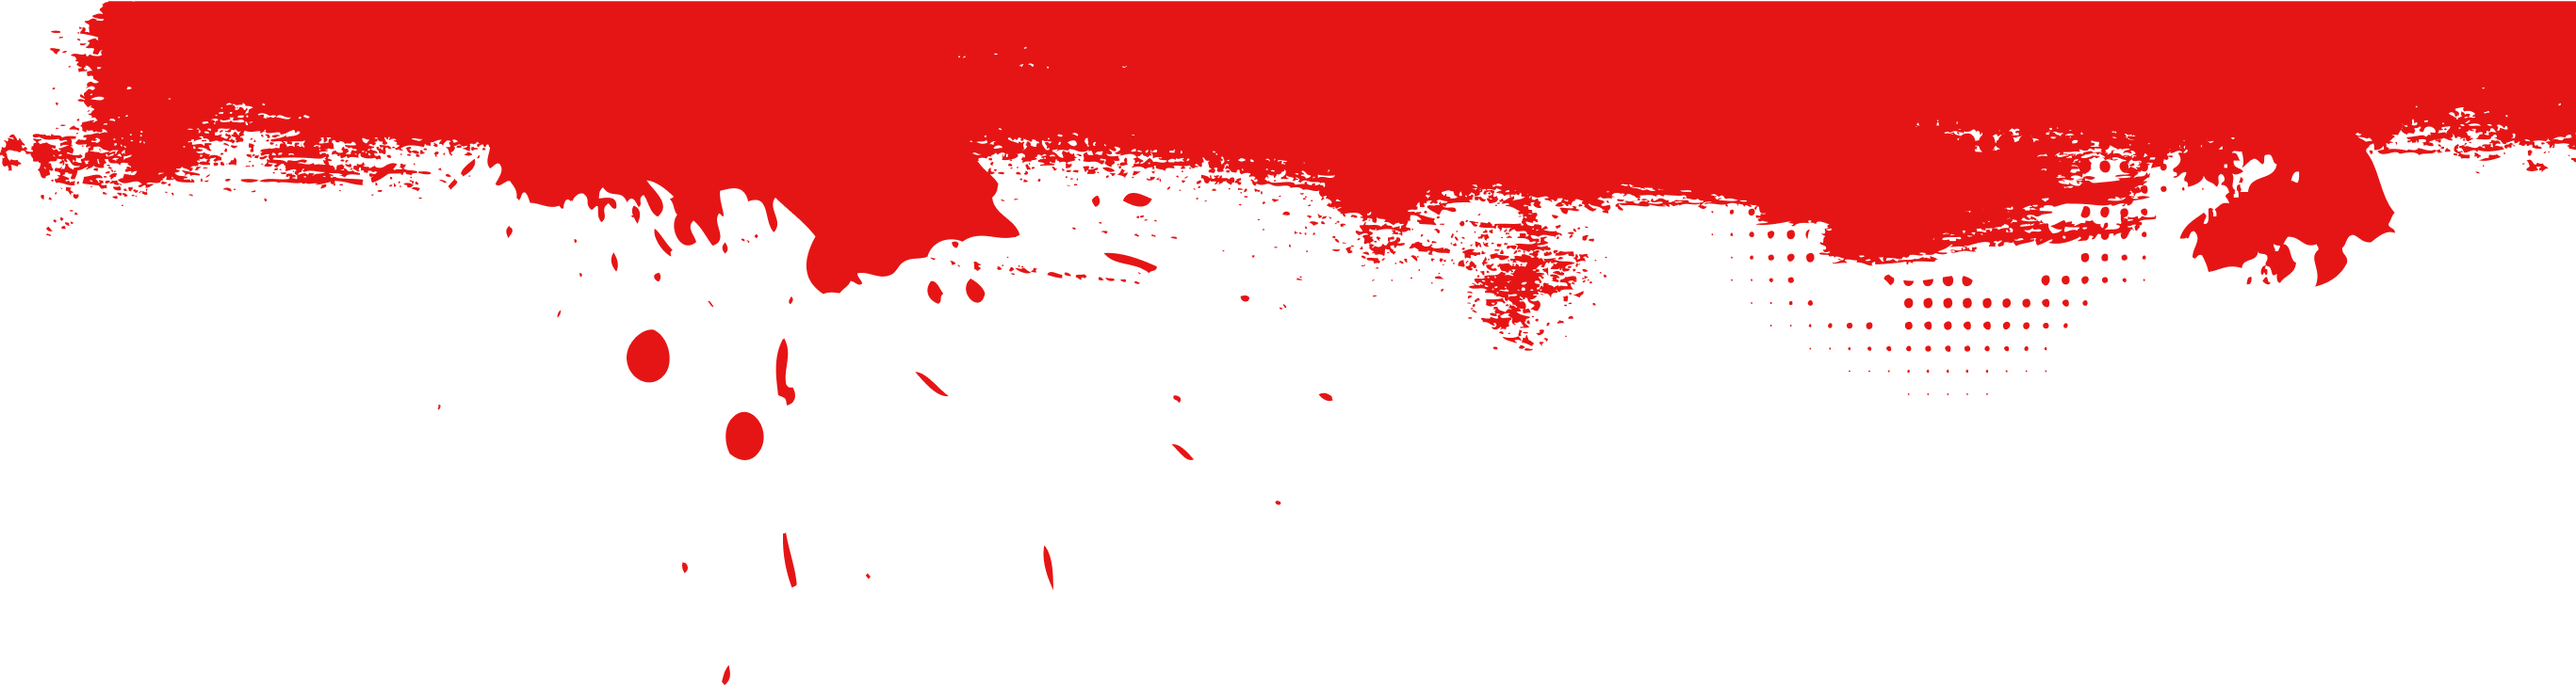
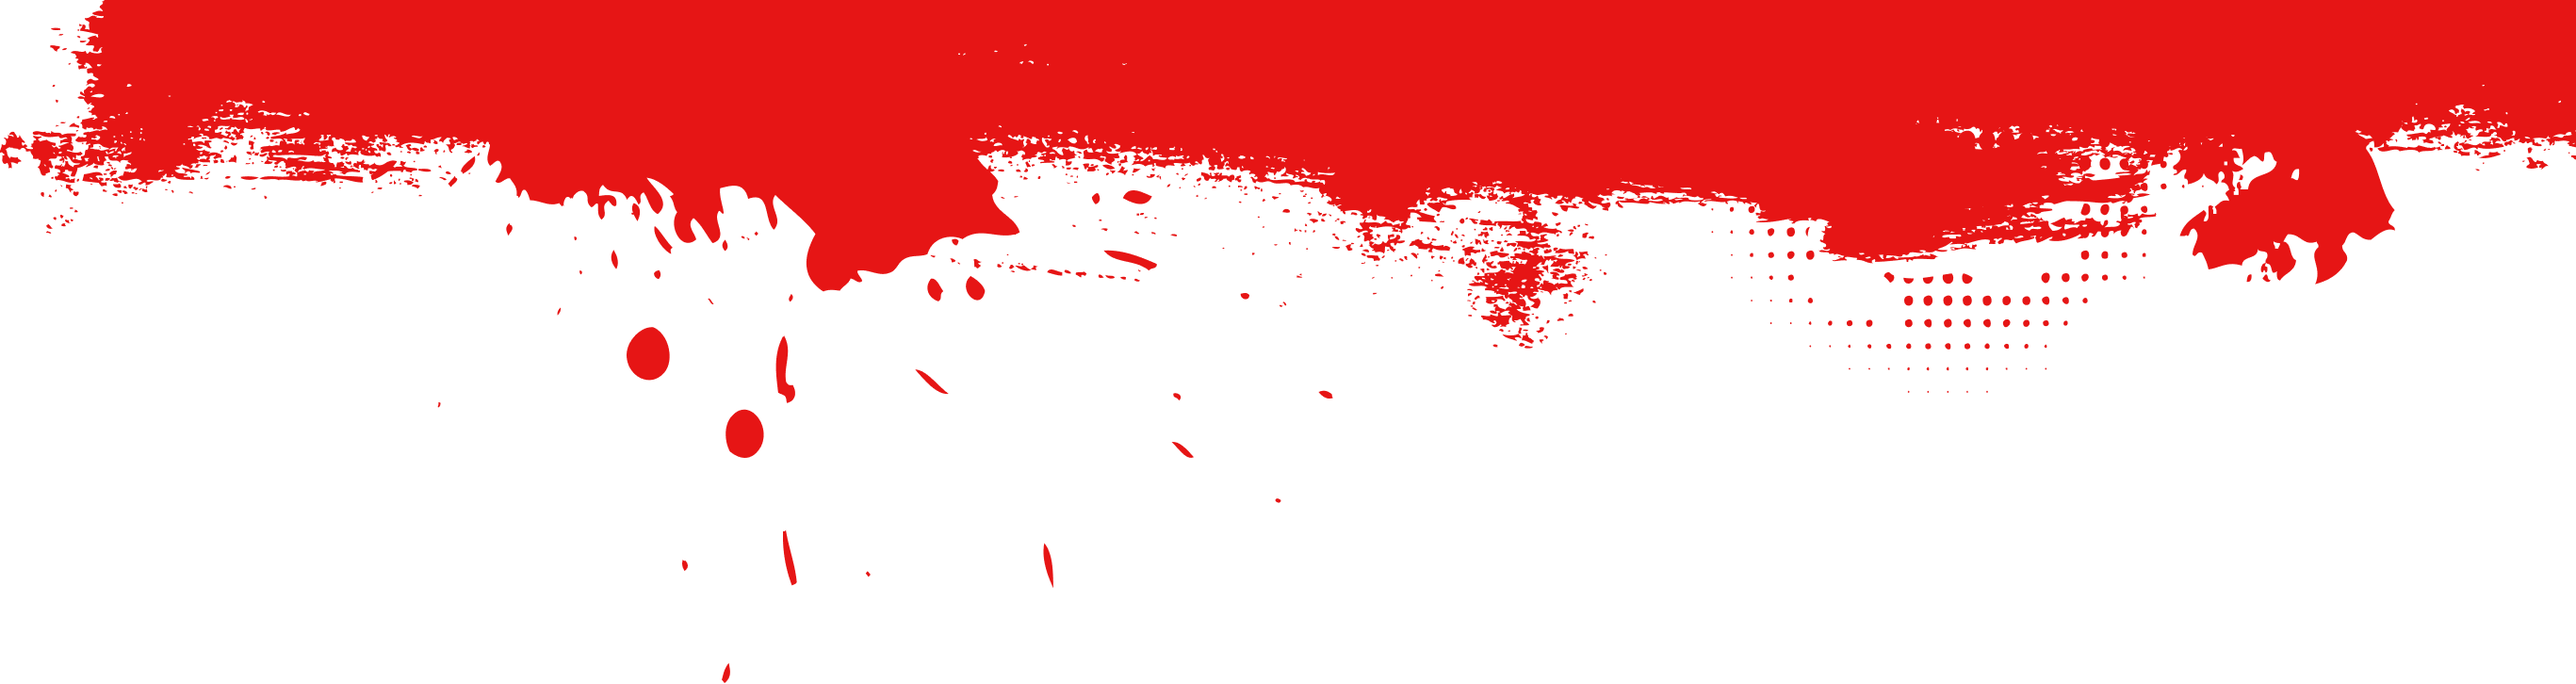
feat: フッターPC一部実装

diff --git a/src/components/base/Footer/Footer.tsx b/src/components/base/Footer/Footer.tsx
@@ -1,11 +1,33 @@
-import { Container, Box, Text } from "@chakra-ui/react";
+import { CompanyLogo2 } from "@/components/ui/Logo/CompanyLogo2";
+import { MenuContentsList } from "@/components/ui/MenuContentsList";
+import { PrimaryImg } from "@/components/ui/PrimaryImg";
+import { Container, Box, Text, Flex } from "@chakra-ui/react";
 
 export default function Footer() {
   return (
-    <Box bg="gray.50" color="gray.700" as="footer">
-      <Container maxW="5xl" py={4}>
-        <Text as="small" color="black">© 2023 3Oinc.</Text>
-      </Container>
-    </Box>
+    <>
+      <Box
+        display={{ base: 'none', md: 'block' }}
+        h='4.17vw'
+        position='relative'
+        w='100%'
+      >
+        <PrimaryImg src='/images/footer-paint-pc.png' alt="猛烈" />
+      </Box>
+      <Box px={{ base: '1.11vw', md: '5.56vw' }} py={{ base: '10.67vw', md: '5.56vw' }} bg='#222222'>
+        <Flex align='end' direction={{ base: 'column', md: 'row' }} justifyContent='space-between'>
+          <MenuContentsList />
+          <Box
+            h={{ base: '4.27vw', md: '16.7vw' }}
+            position='relative'
+            w={{ base: '4.27vw', md: '38.9vw' }}
+          >
+            <CompanyLogo2/>
+          </Box>
+        </Flex>
+
+
+      </Box>
+    </>
   );
 }

diff --git a/src/pages/index.tsx b/src/pages/index.tsx
@@ -1,5 +1,4 @@
-import AboutUs from '@/components/page/Home/AboutUs';
-import { Cont } from '@/components/page/Home/Cont';
+import { AboutUs } from '@/components/page/Home/AboutUs';
 import { Contact } from '@/components/page/Home/Contact';
 import { Member } from '@/components/page/Home/Member';
 import { Service } from '@/components/page/Home/Service';
@@ -11,8 +10,6 @@ export default function Home() {
       <Service />
       <Member />
       <Contact/>
-      <Cont/>
-      <Cont/>
     </>
   )
 }

diff --git a/src/components/page/Home/AboutUs.tsx b/src/components/page/Home/AboutUs.tsx
@@ -2,7 +2,7 @@ import { Box } from "@chakra-ui/react";
 import { CatchphraseSection } from "./CatchphraseSection";
 import { CompanySection } from "./CompanySection";
 
-export default function AboutUs() {
+export const AboutUs = () => {
   return (
     <Box mt='4.5vw' >
       <CatchphraseSection />
